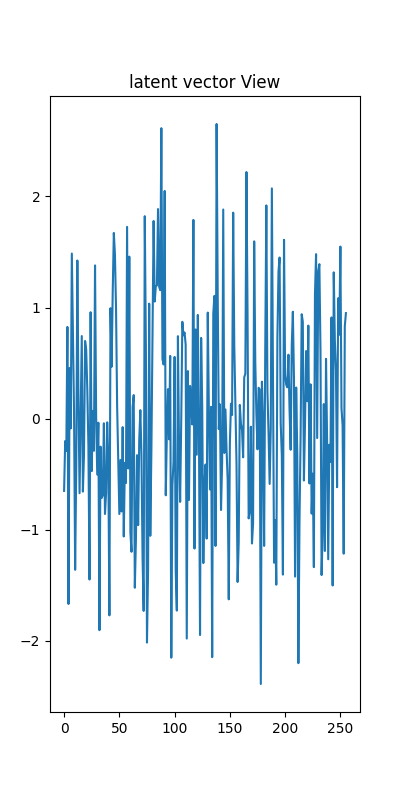
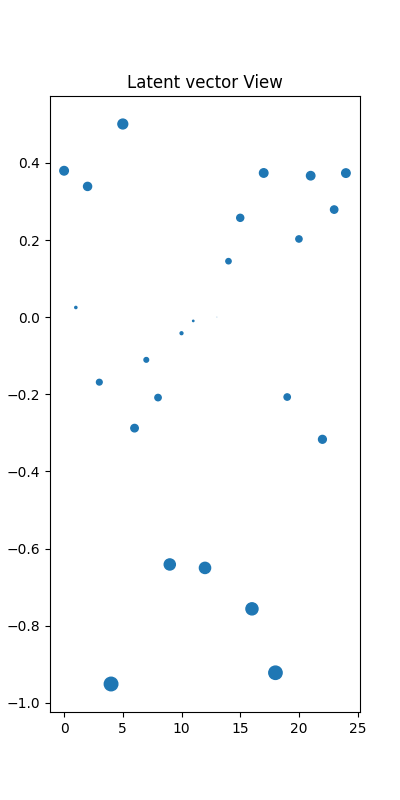
implemented visualisations, improved traiing and testing

diff --git a/simple_autoencoder/train.py b/simple_autoencoder/train.py
@@ -6,6 +6,7 @@ from flax import linen as nn
 import nsd_data
 import models
 from logger import log
+from visualisations import plot_first_100vx_over_epochs, plot_losses, plot_results_before_after_training, plot_results_epoch
 import utils as vae_utils
 from flax.training import train_state, checkpoints
 import jax
@@ -14,6 +15,7 @@ import jax.numpy as jnp
 import ml_collections
 import optax
 import tensorflow_datasets as tfds
+from tqdm import tqdm
 
 
 def compute_metrics(recon_x, x):
@@ -37,21 +39,10 @@ def train_step(state, batch, z_rng, latent_dim, l1_coefficient=0.01):
 
 def eval_f(params, batch, z, z_rng, latent_dim):
     def eval_model(ae):
-        recon_x, latent_vec = ae(batch, z_rng)
-
+        recon_x, latent_vecs = ae(batch, z_rng)
         log(f'dim reconx: {recon_x.shape}', 'EVAL_F')
-        recon_as_image = np.reshape(recon_x[0], (173, 21))
-        original_as_image = np.reshape(batch[0], (173, 21))
-
-        comparison = np.concatenate([
-            original_as_image,
-            # np.zeros((173, 21)),
-            recon_as_image,
-            original_as_image-recon_as_image
-        ], axis=1)
-
         metrics = compute_metrics(recon_x, batch)
-        return metrics, comparison, latent_vec[0]
+        return metrics, (batch, recon_x), latent_vecs
 
     fmri_voxels = batch.shape[1]
     return nn.apply(eval_model, models.model(latent_dim, fmri_voxels))({'params': params})
@@ -84,28 +75,32 @@ def train_and_evaluate(config):
     rng, z_key, eval_rng = random.split(rng, 3)
     z = random.normal(z_key, (64, config.latent_dim))
 
-    log('Calculating training steps per epochs...', 'TRAIN')
-    print(f'train size is {train_size}')
-    train_size = 7369
+    log(f'Calculating training steps per epochs (train_size: {train_size})...', 'TRAIN')
     steps_per_epoch = train_size // int(config.batch_size)
     if train_size % int(config.batch_size) != 0:
         steps_per_epoch += 1
+    log(f"{steps_per_epoch} steps for each ({config.num_epochs}) epoch", 'TRAIN')
 
-    log('Gathering testing batches...', 'TRAIN')
+    log('Collecting test batches...', 'TRAIN')
     test_ds = iter(test_loader)
     test_batches = []
     for step, batch in enumerate(test_loader):
         test_batches.append(batch)
-    log(f'found: {len(test_batches)}', 'TRAIN')
+    log(f'collected {len(test_batches)} test batches', 'TRAIN')
 
     log('\nstarting training', 'TRAIN')
+    losses = []
+
+    data_to_reconstruct = test_batches[0]
+    all_reconstructions = []
+    all_reconstructions.append(data_to_reconstruct)
+
     for epoch in range(config.num_epochs):
         log(f'Epoch {epoch + 1}/{config.num_epochs}', 'TRAIN LOOP')
-        # print(f'Epoch {epoch + 1}/{config.num_epochs}')
 
         # Training loop
         epoch_loss = 0.0
-        for step, batch in enumerate(train_loader):
+        for step, batch in tqdm(enumerate(train_loader), total=steps_per_epoch):
             if step >= steps_per_epoch:
                 break
 
@@ -113,30 +108,25 @@ def train_and_evaluate(config):
             state = train_step(state, batch, key, config.latent_dim)
 
         # eval
-        metrics, comparison, latent_vec = eval_f(
+        metrics, (batch, reconstructions), latent_vecs = eval_f(
             state.params, test_batches[epoch], z, eval_rng, config.latent_dim
         )
-
-        # TODO: maybe visualise the weights
-        # print(state.params)
-        # for k,v in state.params.values():
-        #     print(k)
-        #     print(v.shape)
-
-        fig1, axs1 = plt.subplots(figsize=(4, 8))
-        axs1.imshow(comparison, cmap='gray')
-        axs1.set_title('Original fMRI + reconstruction')
-        fig1.savefig(f'results/fmri_visualization_{epoch}.png')
-        plt.close()
-
-        fig2, axs2 = plt.subplots(figsize=(4, 8))
-        axs2.plot(latent_vec)
-        axs2.set_title('latent vector View')
-        fig2.savefig(f'results/latent_vec_{epoch}.png')
-        plt.close()
-
+        plot_results_epoch(batch, reconstructions, latent_vecs, epoch)
         print(
             'eval epoch: {}, loss: {:.4f}'.format(
                 epoch + 1, metrics['loss']
             )
         )
+        losses.append(epoch_loss)
+
+        # for evolution visualisation
+        print(f"data to rec has shape {data_to_reconstruct.shape} ")
+        metrics, (batch, reconstructions), latent_vecs = eval_f(
+            state.params, data_to_reconstruct, z, eval_rng, config.latent_dim
+        )
+        print(f" rec has shape {reconstructions.shape} ")
+        all_reconstructions.append(reconstructions)
+
+    plot_first_100vx_over_epochs(np.array(all_reconstructions))
+    # plot_results_before_after_training(batch reconstructions, latent_vec)
+    plot_losses(losses)

diff --git a/simple_autoencoder/visualisations.py b/simple_autoencoder/visualisations.py
@@ -1,0 +1,97 @@
+import matplotlib.pyplot as plt
+import numpy as np
+import seaborn as sns
+
+def plot_first_100vx_over_epochs(data):
+    # take first 100 voxels from the first batch of each epoch
+    print('first 100vx shape')
+    print(data.shape)
+    data = data[:, 0, :100]
+    print(data.shape)
+
+    plt.figure(figsize=(15,15))
+    plt.title('First 100 voxels over epochs')
+    plt.imshow(data, aspect='auto', cmap='gray')
+    plt.savefig('results/first100vx.png')
+
+
+def plot_results_epoch(batch, reconstructions, latent_vec, epoch):
+    print(f"shape batch is {batch.shape}")
+    print(f"shape recons is {reconstructions.shape}")
+    recon_as_image = np.reshape(reconstructions[0], (173, 21))
+    original_as_image = np.reshape(batch[0], (173, 21))
+
+    fig2, axs2 = plt.subplots(figsize=(4, 8))
+    axs2.scatter(range(len(latent_vec[0])), latent_vec[0], s=np.abs(latent_vec[0])*100)
+    axs2.set_title('Latent vector View')
+    fig2.savefig(f'results/latent_vec_{epoch}.png')
+    plt.close()
+
+    # Visualization
+    plt.figure(figsize=(15,5))
+    plt.subplot(131)
+    plt.title('Original Data')
+    plt.imshow(batch, aspect='auto', cmap='viridis')
+    plt.colorbar()
+
+    plt.subplot(132)
+    plt.title('Reconstructed Data')
+    plt.imshow(reconstructions, aspect='auto', cmap='viridis')
+    plt.colorbar()
+
+    plt.subplot(133)
+    plt.title('Difference')
+    plt.imshow(batch - reconstructions, aspect='auto', cmap='RdBu_r')
+    plt.colorbar()
+
+    plt.tight_layout()
+    plt.savefig(f'results/reconstruction_debug_{epoch}.png')
+    plt.close()
+
+def plot_results_before_after_training():
+    pass
+
+def plot_losses(losses):
+    plt.figure(figsize=(10,10))
+    plt.title('Losses over epochs')
+    plt.plot(losses)
+    plt.xlabel('epochs')
+    plt.ylabel('loss')
+    plt.savefig(f'results/losses.png')
+    plt.close()
+
+def plot_data_distribution(lh_fmri, rh_fmri):
+    fig, axs = plt.subplots(3, figsize=(15,15))
+    if lh_fmri is not None: sns.histplot(lh_fmri.reshape(-1), ax=axs[0], kde=True)
+    if rh_fmri is not None: sns.histplot(rh_fmri.reshape(-1), ax=axs[1], kde=True)
+    axs[0].set_title('Distribution of fMRI Data (lh)')
+    axs[0].set_xlabel('Voxel Values')
+    axs[0].set_ylabel('Frequency')
+    axs[1].set_title('Distribution of fMRI Data (rh)')
+    axs[1].set_xlabel('Voxel Values')
+    axs[1].set_ylabel('Frequency')
+
+    # Plot overlapping distributions on third axis
+    if lh_fmri is not None and rh_fmri is not None:
+        # Create normal distribution with same mean/std as data
+        x = np.linspace(min(lh_fmri.min(), rh_fmri.min()), max(lh_fmri.max(), rh_fmri.max()), 100)
+        mu = np.mean([lh_fmri.mean(), rh_fmri.mean()])
+        sigma = np.mean([lh_fmri.std(), rh_fmri.std()])
+        normal = 1/(sigma * np.sqrt(2 * np.pi)) * np.exp( - (x - mu)**2 / (2 * sigma**2))
+
+        sns.histplot(data=lh_fmri.reshape(-1), ax=axs[2], stat='density', color='blue', alpha=0.3, label='LH fMRI')
+        sns.histplot(data=rh_fmri.reshape(-1), ax=axs[2], stat='density', color='red', alpha=0.3, label='RH fMRI')
+        axs[2].plot(x, normal, color='green', label='Normal Distribution')
+        axs[2].legend()
+        # TODO: problema, la media e mu sono settati sulla medai e il mu delle distribuzioni, dpovrebber essre sullo zero forse?
+        axs[2].set_title('Overlapping Distributions')
+        axs[2].set_xlabel('Voxel Values')
+        axs[2].set_ylabel('Density')
+
+        print(f"(lh) Mean: {np.mean(lh_fmri)}")
+        print(f"(rh) Mean: {np.mean(rh_fmri)}")
+        print(f"(lh) std: {np.std(lh_fmri)}")
+        print(f"(rh) std: {np.std(rh_fmri)}")
+
+        fig.savefig(f'results/data_distribution.png')
+        plt.close()

diff --git a/simple_autoencoder/nsd_data.py b/simple_autoencoder/nsd_data.py
@@ -12,7 +12,8 @@ import pandas as pd
 import coco_load as cl
 import nsd_data
 import matplotlib.pyplot as plt
-import seaborn as sns
+
+from visualisations import plot_data_distribution
 debug = False
 
 
@@ -155,22 +156,8 @@ class FmriDataset(jdl.Dataset):
             # print(f"(after noramlisation) min lh fmri value: {lh_min}")
             self.lh_fmri = lh_fmri[:, roi_lh]
 
-        if debug and self.hem == 'all':
-            fig, axs = plt.subplots(2, figsize=(10,10))
-            sns.histplot(self.lh_fmri.reshape(-1), ax=axs[0], kde=True)
-            sns.histplot(self.rh_fmri.reshape(-1), ax=axs[1], kde=True)
-            axs[0].set_title('Distribution of fMRI Data (lh)')
-            axs[0].set_xlabel('Voxel Values')
-            axs[0].set_ylabel('Frequency')
-            axs[1].set_title('Distribution of fMRI Data (rh)')
-            axs[1].set_xlabel('Voxel Values')
-            axs[1].set_ylabel('Frequency')
-            plt.show()
-
-            print(f"(lh) Mean: {np.mean(self.lh_fmri)}")
-            print(f"(rh) Mean: {np.mean(self.rh_fmri)}")
-            print(f"(lh) std: {np.std(self.lh_fmri)}")
-            print(f"(rh) std: {np.std(self.rh_fmri)}")
+        # if debug and self.hem == 'all':
+        plot_data_distribution(self.lh_fmri, self.rh_fmri)
 
     def __len__(self):
         return len(self.idxs)
